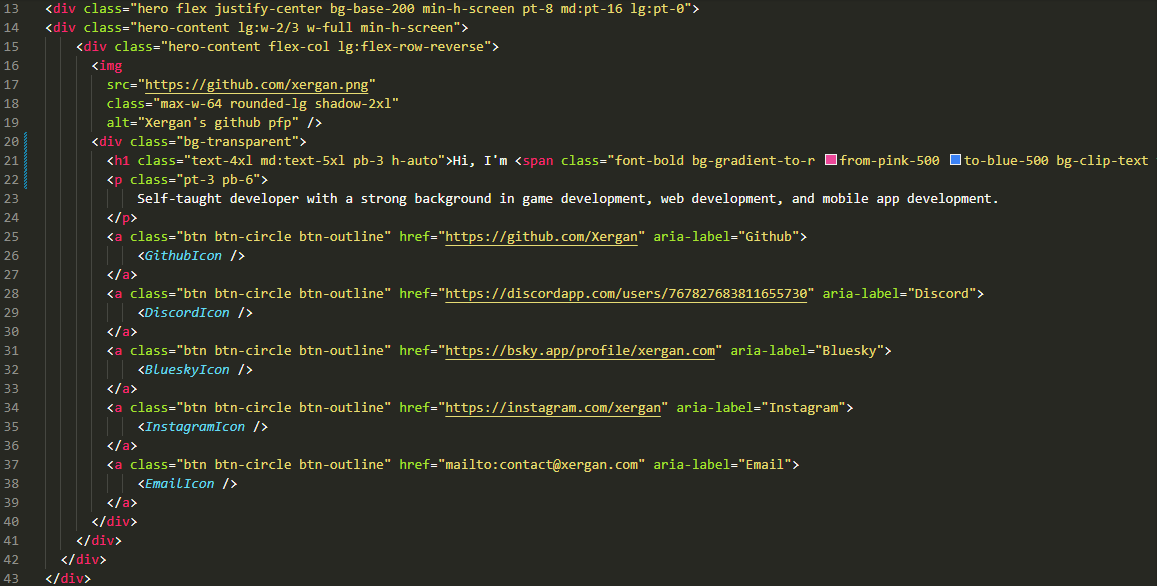
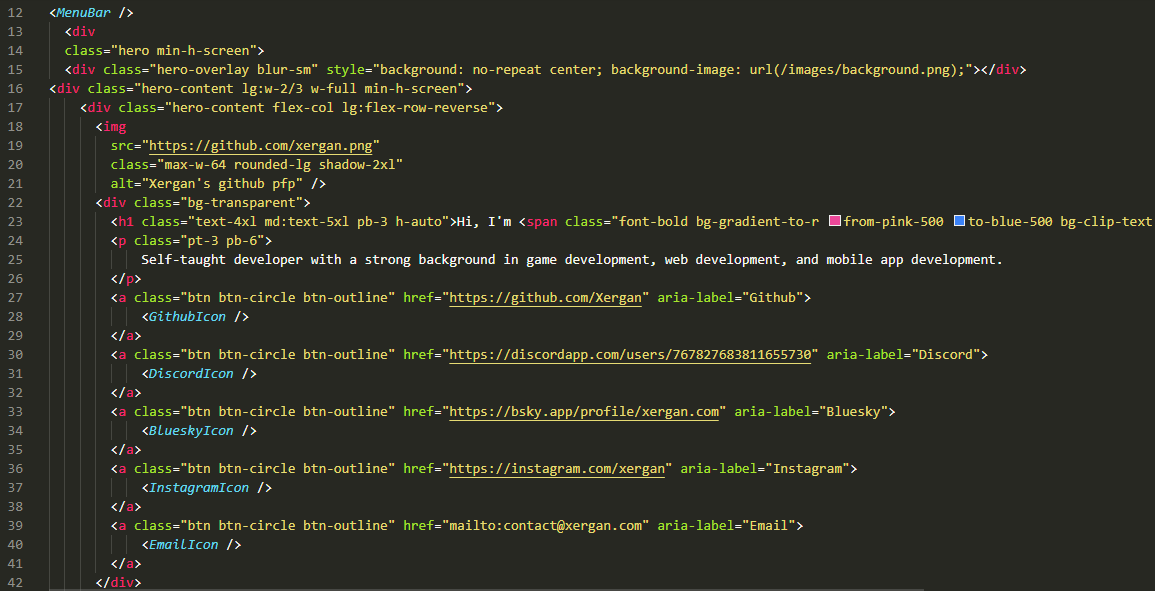
e

Changed region(s): [[0.0, 0.0, 0.9974, 1.0], [0.4364, 0.2457, 0.4675, 0.2765]]

diff --git a/src/routes/+page.svelte b/src/routes/+page.svelte
@@ -5,14 +5,11 @@
 	import EmailIcon from "$lib/svgs/email_icon.svelte";
 	import GithubIcon from "$lib/svgs/github_icon.svelte";
 	import InstagramIcon from "$lib/svgs/instagram_icon.svelte";
-
-
 </script>
 
 <MenuBar />
-  <div
-  class="hero min-h-screen">
-  <div class="hero-overlay blur-sm" style="background: no-repeat center; background-image: url(/images/background.png);"></div>
+<div class="hero min-h-screen">
+<div class="hero-overlay blur-sm" style="background: no-repeat center; background-image: url(/images/background.png);"></div>
 <div class="hero-content lg:w-2/3 w-full min-h-screen">
     <div class="hero-content flex-col lg:flex-row-reverse">
       <img
